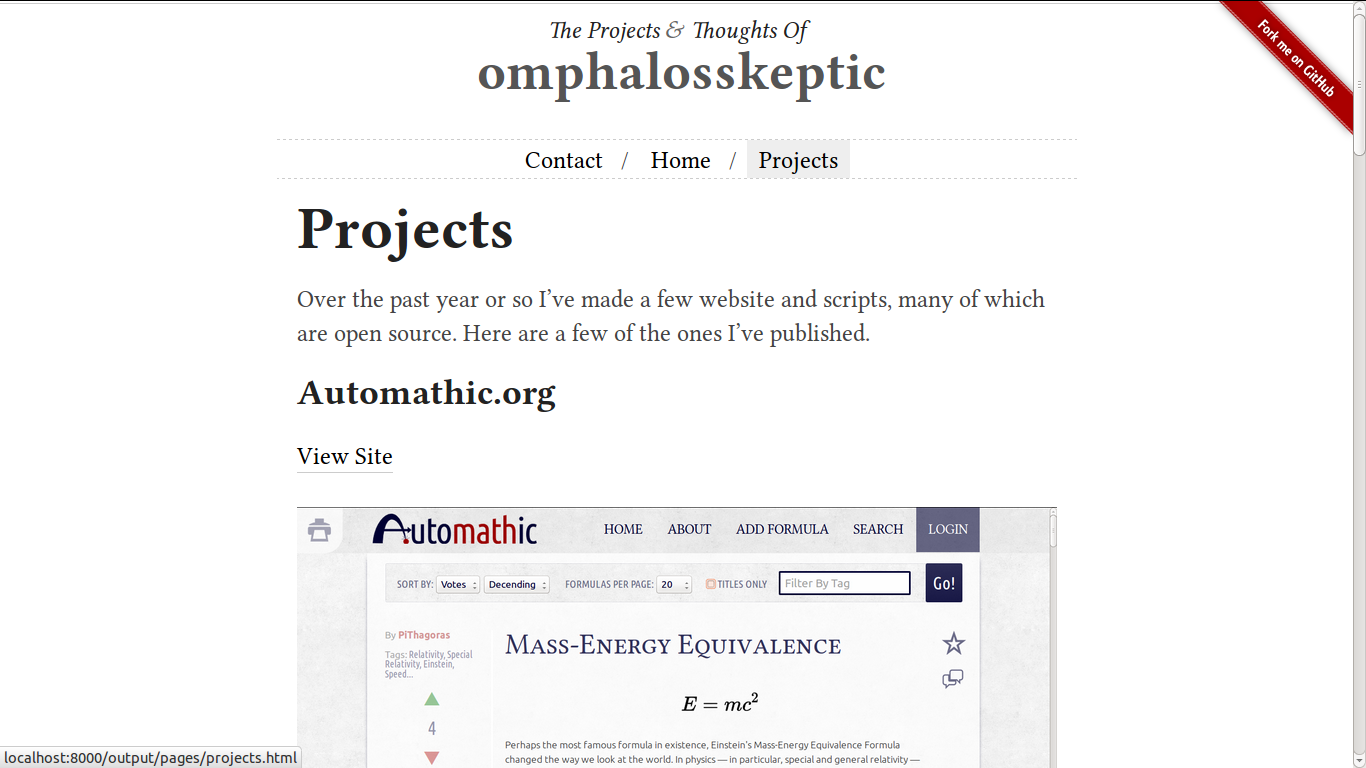
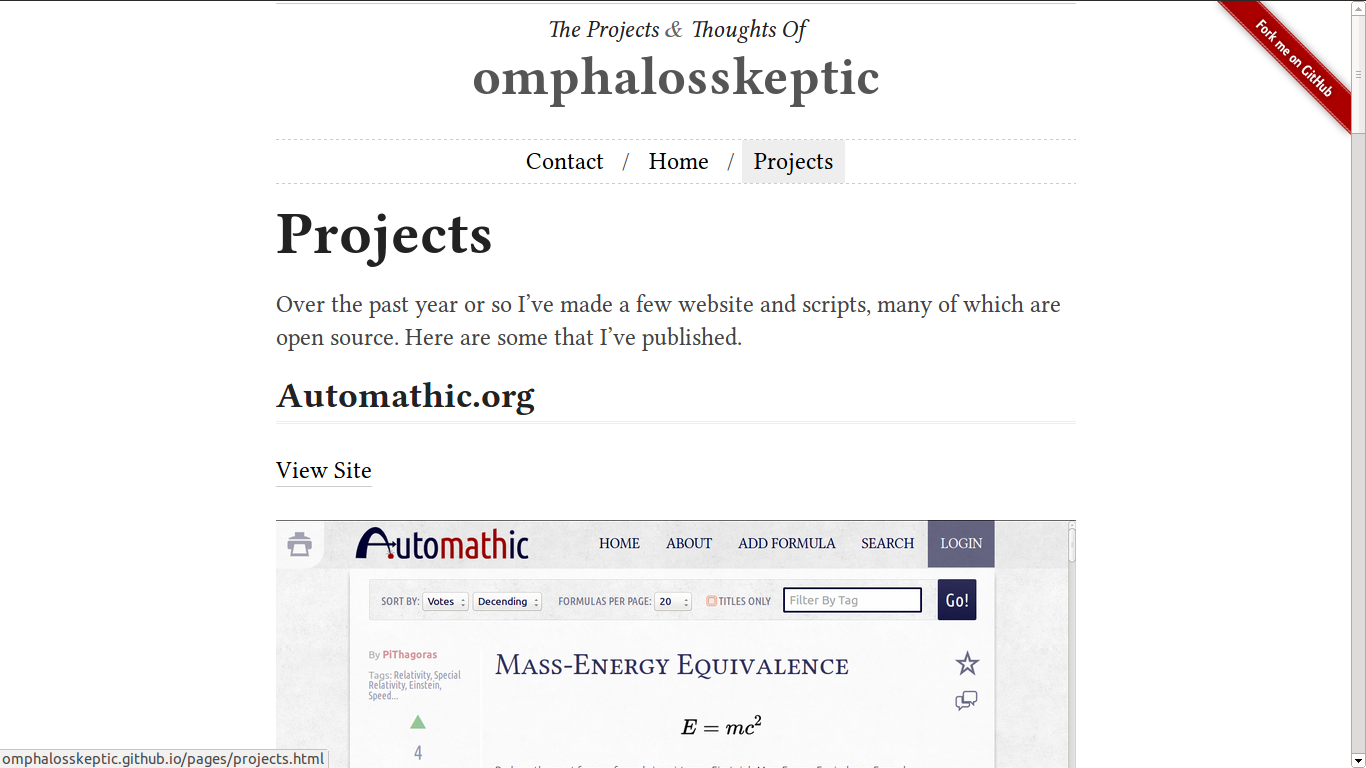
Mobile optimization

diff --git a/pages/projects.html b/pages/projects.html
@@ -2,6 +2,9 @@
 <html lang="en">
 <head>
         <meta charset="UTF-8" />
+        <meta name="viewport" content="width=device-width, initial-scale=1">
+        <meta name="MobileOptimized" content="320">
+        <meta name="HandheldFriendly" content="True">
         <title>Projects — Omphalosskeptic’s Userpage</title>
         <link rel="stylesheet" href="../theme/css/main.css" />
         <link href="localhost/omphalosskeptic/feeds/all.atom.xml" type="application/atom+xml" rel="alternate" title="omphalosskeptic Atom Feed" />
@@ -38,7 +41,7 @@
 <p><strong>Typeset in:</strong> Linux Libertine SC &amp; Ubuntu.</p>
 <h3>Algebrarules.com</h3>
 <p><a href="http://algebrarules.com">View Site</a> //
- <a href="http://github.com/omphalosskeptic/algebrarules.com">View Source</a> <br><br> <img src="http://omphalosskeptic.github.io/theme/images/algebrarules.png" style="width: 100%;max-width:800px;" /></p>
+ <a href="http://github.com/omphalosskeptic/algebrarules.com">Source Code</a> <br><br> <img src="http://omphalosskeptic.github.io/theme/images/algebrarules.png" style="width: 100%;max-width:800px;" /></p>
 <h4>About</h4>
 <p>This is a collaboration between myself and <a href="http://github.com/photosynthesis">Photosythesis</a>; I built the site and he did the math.</p>
 <p>This was originally going to be a dirt-simple single html file, but the project experienced some mission creep.</p>
@@ -53,14 +56,15 @@
 <p>It will use Jquery, HTML5Boilerplate, and a load of other stuff.</p>
 <p><strong>Typeset in:</strong> Roboto</p>
 <h3>Old: Flexbox Functions</h3>
-<p><a href="http://github.com/omphalosskeptic/flexbox_functions">View on Github</a></p>
+<p><a href="http://github.com/omphalosskeptic/flexbox_functions">Source Code</a></p>
 <p>This is mostly obsolete now that the use of SASS is so widespread, but would be handy for anyone using PHP for CSS preprocessing.</p>
-<h3>This proto-site</h3>
-<p><a href="http://github.com/omphalosskeptic/omphalosskeptic.github.io">View Source on Github</a><br> <br><img src="http://omphalosskeptic.github.io/theme/images/thissite.png" style="width: 100%;max-width:800px;" /></p>
+<h3>This proto-site <span class="amp">&amp;</span> “Clean” — a minimalist Pelican theme</h3>
+<p><a href="http://github.com/omphalosskeptic/clean">Clean theme Source Code</a><br> <br><img src="http://omphalosskeptic.github.io/theme/images/thissite.png" style="width: 100%;max-width:800px;" /></p>
 <h4>About</h4>
-<p>This site is a way for folks who aren’t used to Github to get an overview of my codeing projects, and also served as a way to familiarize myself to a very limited extent with <a href="http://getpelican.com">Pelican</a>.</p>
+<p>This site is a place to collect my web projects, and also was a way for me to to familiarize myself to some extent with <a href="http://getpelican.com">Pelican</a>.</p>
+<p>I have open-sourced the theme that this site uses. I am far from an expert with Pelican, and the code is still under development (in other words a bit of a mess) but it works for me.</p>
 <h4>Technology</h4>
-<p>This site is generated with Pelican, a Python <em>static site generator</em>. I am far from an expert with Pelican, and the code is a mess. If you want the code for the proto-theme that’s running here shoot me an email. I’m not going to bother putting it on github, though.</p>
+<p>This site is generated with Pelican, a Python <em>static site generator</em>. It makes use of Typeplate.css, Pygments.css, Reset.css, Python, Jinja2 templating, and my custom Pelican theme, Clean.</p>
 <p><strong>Typeset in:</strong> Linux Libertine (Otherwise known of as <em>The Font I Overuse</em>)</p>
 </section>
         <section id="extras" class="body">
@@ -87,6 +91,7 @@
                 <address id="about" class="vcard body">
                 &copy; 2014 Omphalosskeptic — Proudly powered by <a href="http://getpelican.com/">Pelican</a> <span class="amp">&amp;</span> <a href="http://typeplate.com">Typeplate</a>.
                 </address><!-- /#about -->
+                <p><a href="http://github.com/omphalosskeptic/clean">Clean</a> theme by <a href="http://omphalosskeptic.github.io">Omphalosskeptic</a>
         </footer><!-- /#contentinfo -->
 
 </body>

diff --git a/authors.html b/authors.html
@@ -2,6 +2,9 @@
 <html lang="en">
 <head>
         <meta charset="UTF-8" />
+        <meta name="viewport" content="width=device-width, initial-scale=1">
+        <meta name="MobileOptimized" content="320">
+        <meta name="HandheldFriendly" content="True">
         <title>omphalosskeptic - Authors — Omphalosskeptic’s Userpage</title>
         <link rel="stylesheet" href="./theme/css/main.css" />
         <link href="localhost/omphalosskeptic/feeds/all.atom.xml" type="application/atom+xml" rel="alternate" title="omphalosskeptic Atom Feed" />
@@ -55,6 +58,7 @@
                 <address id="about" class="vcard body">
                 &copy; 2014 Omphalosskeptic — Proudly powered by <a href="http://getpelican.com/">Pelican</a> <span class="amp">&amp;</span> <a href="http://typeplate.com">Typeplate</a>.
                 </address><!-- /#about -->
+                <p><a href="http://github.com/omphalosskeptic/clean">Clean</a> theme by <a href="http://omphalosskeptic.github.io">Omphalosskeptic</a>
         </footer><!-- /#contentinfo -->
 
 </body>

diff --git a/tags.html b/tags.html
@@ -2,6 +2,9 @@
 <html lang="en">
 <head>
         <meta charset="UTF-8" />
+        <meta name="viewport" content="width=device-width, initial-scale=1">
+        <meta name="MobileOptimized" content="320">
+        <meta name="HandheldFriendly" content="True">
         <title>omphalosskeptic - Tags — Omphalosskeptic’s Userpage</title>
         <link rel="stylesheet" href="./theme/css/main.css" />
         <link href="localhost/omphalosskeptic/feeds/all.atom.xml" type="application/atom+xml" rel="alternate" title="omphalosskeptic Atom Feed" />
@@ -55,6 +58,7 @@
                 <address id="about" class="vcard body">
                 &copy; 2014 Omphalosskeptic — Proudly powered by <a href="http://getpelican.com/">Pelican</a> <span class="amp">&amp;</span> <a href="http://typeplate.com">Typeplate</a>.
                 </address><!-- /#about -->
+                <p><a href="http://github.com/omphalosskeptic/clean">Clean</a> theme by <a href="http://omphalosskeptic.github.io">Omphalosskeptic</a>
         </footer><!-- /#contentinfo -->
 
 </body>

diff --git a/archives.html b/archives.html
@@ -2,6 +2,9 @@
 <html lang="en">
 <head>
         <meta charset="UTF-8" />
+        <meta name="viewport" content="width=device-width, initial-scale=1">
+        <meta name="MobileOptimized" content="320">
+        <meta name="HandheldFriendly" content="True">
         <title>omphalosskeptic — Omphalosskeptic’s Userpage</title>
         <link rel="stylesheet" href="./theme/css/main.css" />
         <link href="localhost/omphalosskeptic/feeds/all.atom.xml" type="application/atom+xml" rel="alternate" title="omphalosskeptic Atom Feed" />
@@ -54,6 +57,7 @@
                 <address id="about" class="vcard body">
                 &copy; 2014 Omphalosskeptic — Proudly powered by <a href="http://getpelican.com/">Pelican</a> <span class="amp">&amp;</span> <a href="http://typeplate.com">Typeplate</a>.
                 </address><!-- /#about -->
+                <p><a href="http://github.com/omphalosskeptic/clean">Clean</a> theme by <a href="http://omphalosskeptic.github.io">Omphalosskeptic</a>
         </footer><!-- /#contentinfo -->
 
 </body>

diff --git a/categories.html b/categories.html
@@ -2,6 +2,9 @@
 <html lang="en">
 <head>
         <meta charset="UTF-8" />
+        <meta name="viewport" content="width=device-width, initial-scale=1">
+        <meta name="MobileOptimized" content="320">
+        <meta name="HandheldFriendly" content="True">
         <title>omphalosskeptic — Omphalosskeptic’s Userpage</title>
         <link rel="stylesheet" href="./theme/css/main.css" />
         <link href="localhost/omphalosskeptic/feeds/all.atom.xml" type="application/atom+xml" rel="alternate" title="omphalosskeptic Atom Feed" />
@@ -50,6 +53,7 @@
                 <address id="about" class="vcard body">
                 &copy; 2014 Omphalosskeptic — Proudly powered by <a href="http://getpelican.com/">Pelican</a> <span class="amp">&amp;</span> <a href="http://typeplate.com">Typeplate</a>.
                 </address><!-- /#about -->
+                <p><a href="http://github.com/omphalosskeptic/clean">Clean</a> theme by <a href="http://omphalosskeptic.github.io">Omphalosskeptic</a>
         </footer><!-- /#contentinfo -->
 
 </body>

diff --git a/pages/contact.html b/pages/contact.html
@@ -2,6 +2,9 @@
 <html lang="en">
 <head>
         <meta charset="UTF-8" />
+        <meta name="viewport" content="width=device-width, initial-scale=1">
+        <meta name="MobileOptimized" content="320">
+        <meta name="HandheldFriendly" content="True">
         <title>Contact — Omphalosskeptic’s Userpage</title>
         <link rel="stylesheet" href="../theme/css/main.css" />
         <link href="localhost/omphalosskeptic/feeds/all.atom.xml" type="application/atom+xml" rel="alternate" title="omphalosskeptic Atom Feed" />
@@ -57,6 +60,7 @@
                 <address id="about" class="vcard body">
                 &copy; 2014 Omphalosskeptic — Proudly powered by <a href="http://getpelican.com/">Pelican</a> <span class="amp">&amp;</span> <a href="http://typeplate.com">Typeplate</a>.
                 </address><!-- /#about -->
+                <p><a href="http://github.com/omphalosskeptic/clean">Clean</a> theme by <a href="http://omphalosskeptic.github.io">Omphalosskeptic</a>
         </footer><!-- /#contentinfo -->
 
 </body>

diff --git a/theme/css/main.css b/theme/css/main.css
@@ -24,11 +24,13 @@ a,abbr,acronym,address,applet,b,big,blockquote,body,caption,center,cite,code,dd,
 /* Body */
 body {
     font-family: Linux Libertine O, 'Linux Libertine', serif;
-    font-size: 24px;
+    font-size: 18px;
     line-height: 1.4;
     width: 100%;
     max-width: 800px;
     margin: 0 auto;
+    padding-left: 20px;
+    padding-right: 20px;
 }
 
 /* Base typography */
@@ -142,6 +144,7 @@ figure.left{
 
 	/* Banner */
 	#banner h1 {
+		font-size: 1.9em;
 		line-height: 0;
 		margin: 35px 0 60px 0;
 	}
@@ -435,6 +438,10 @@ li:last-child .hentry, #content > .hentry {border: 0; margin: 0;}
 
 	.github_ribbon{
 		display: block;
+	}
+
+	body{
+		font-size:24px;
 	}
 
 }
